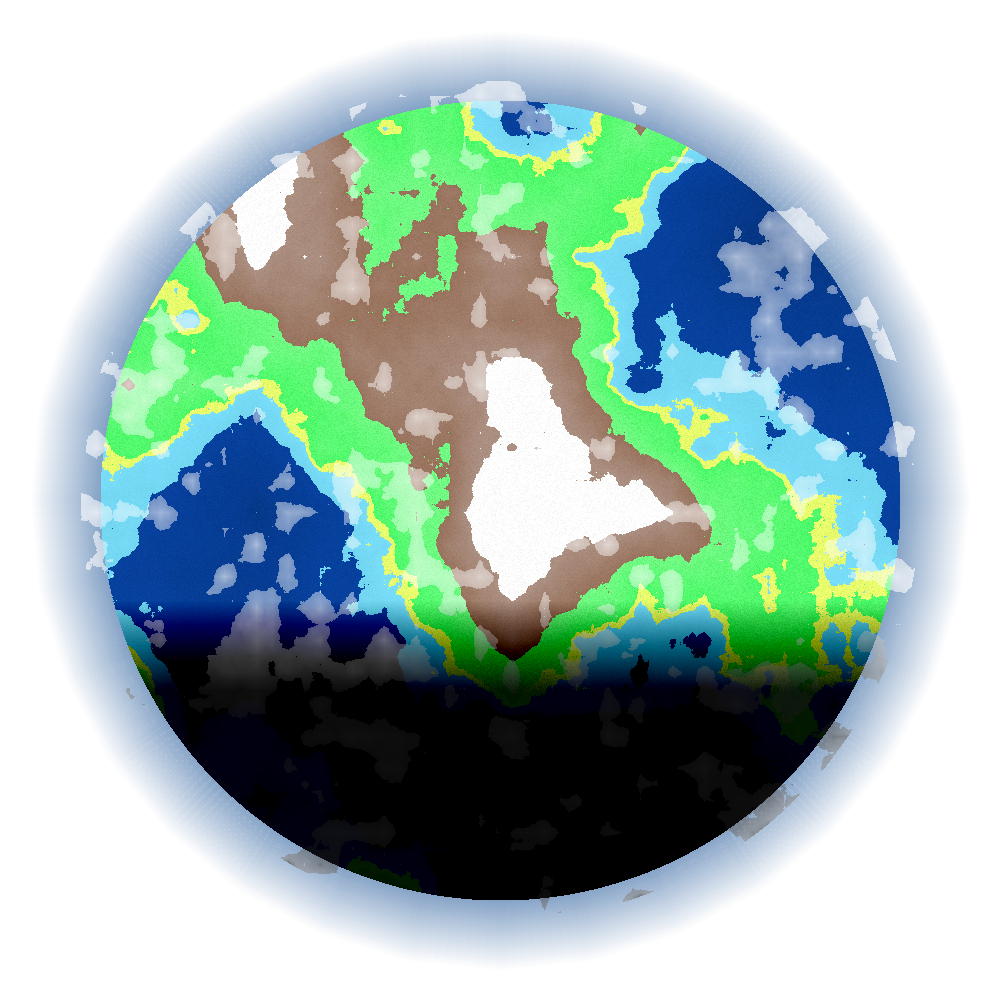
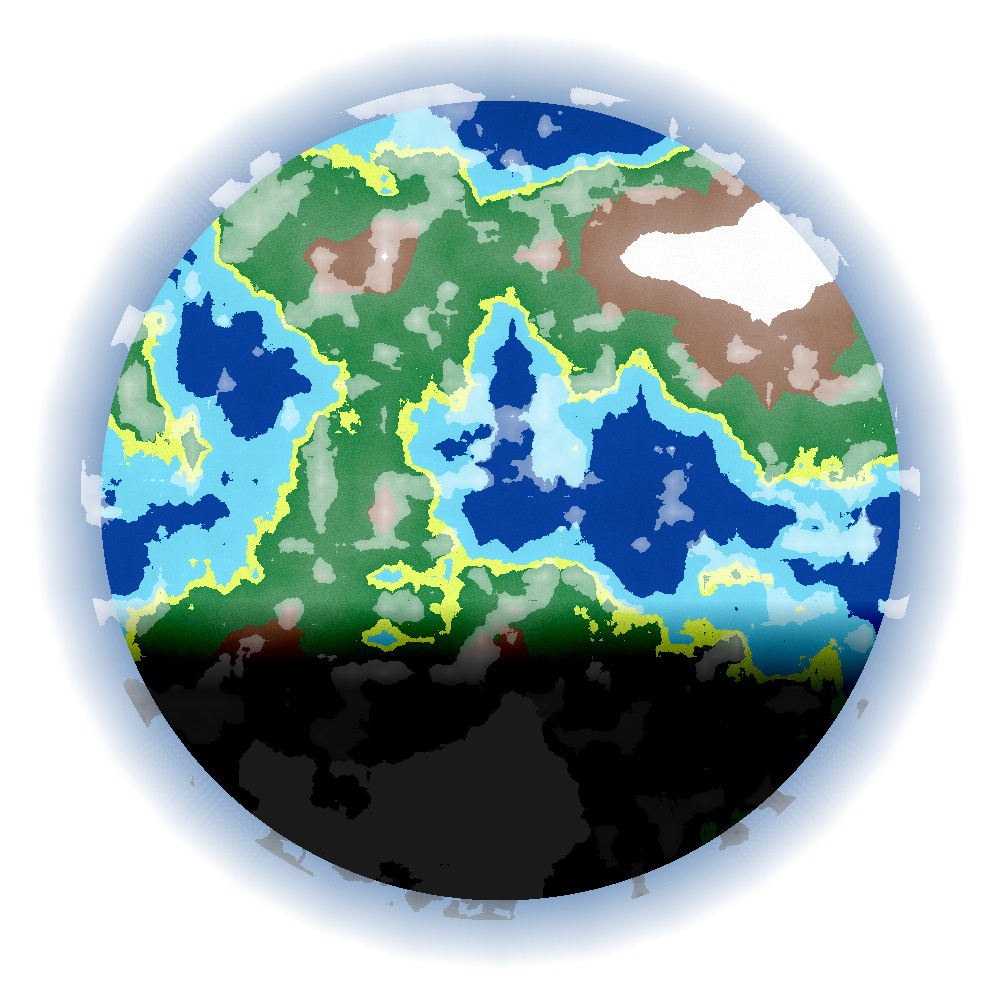
Seeds

diff --git a/Planet.js b/Planet.js
@@ -1,12 +1,17 @@
 const SimplexNoise = require("simplex-noise");
-const PerlinNoise = require('perlin-noise');
+const PerlinNoise = require('seeded-perlin-noise');
 const PImage = require('pureimage');
+const fs = require('fs');
 
 /*
     RANDOM NOISE GENERATION
 */
-function generatePerlinArray(width, height, options) {
+function generatePerlinArray(width, height, options, seed = null) {
     let perlinArray = [];
+
+    //SET SEED IF SET
+    PerlinNoise.setSeed(seed);
+
     let noise = PerlinNoise.generatePerlinNoise(width, height, options);
     for (let i = 0; i < height; i++) {
         let perlinRow = [];
@@ -32,8 +37,8 @@ function generateSimplexArray(width, height, seed) {
     return simplexArray;
 }
 
-function craterMap(width, height, generator_options) {
-    let perlinNoise = generatePerlinArray(width, height, generator_options);
+function craterMap(width, height, generator_options, seed) {
+    let perlinNoise = generatePerlinArray(width, height, generator_options, seed);
     let craters = []; //[[x,y],[x,y]]
 
     for (let x = 0; x < perlinNoise.length; x++) {
@@ -191,7 +196,7 @@ function distance(x1, y1, x2, y2) {
 /*
     PLANET GENERATION
 */
-function generatePlanet(imageSize, planetOptions, colors, generatorOptions = null, cloudGeneratorOptions = null) {
+function generatePlanet(imageSize, planetOptions, colors, seed = null, generatorOptions = null, cloudGeneratorOptions = null) {
 
     //GET VARS
     let width = imageSize, height = imageSize;
@@ -220,12 +225,12 @@ function generatePlanet(imageSize, planetOptions, colors, generatorOptions = nul
         }
     }
 
-    let noise = generatePerlinArray(width, height, generatorOptions);
+    let noise = generatePerlinArray(width, height, generatorOptions, seed);
 
     let grass_noise = null;
     //GENERATE DETAILS IF ENABLED
     if (colors.add_detail) {
-        grass_noise = generateSimplexArray(width, height, Math.random);
+        grass_noise = generateSimplexArray(width, height, seed);
     }
 
     var image = PImage.make(width, height);
@@ -306,7 +311,7 @@ function generatePlanet(imageSize, planetOptions, colors, generatorOptions = nul
 
     //CRATERS
     if (hasCraters) {
-        let craters = craterMap(width, height, generatorOptions);
+        let craters = craterMap(width, height, generatorOptions, seed);
 
         for (let i = 0; i < craters.length; i++) {
             let crater = craters[i];
@@ -318,7 +323,7 @@ function generatePlanet(imageSize, planetOptions, colors, generatorOptions = nul
             let inner_crater = Math.round(crater_radius * 0.2);
             crater_radius = crater_radius + crater_ring;
 
-            let blending = generatePerlinArray(width, width, cloudGeneratorOptions);
+            let blending = generatePerlinArray(width, width, cloudGeneratorOptions, seed);
 
             let x1 = 0;
             let y1 = 0;
@@ -384,7 +389,7 @@ function generatePlanet(imageSize, planetOptions, colors, generatorOptions = nul
 
     //CLOUDS
     if (hasClouds) {
-        let cloudNoise = generatePerlinArray(width, height, cloudGeneratorOptions);
+        let cloudNoise = generatePerlinArray(width, height, cloudGeneratorOptions, seed);
 
         let cloud_radius = planetOptions.cloud_radius;
         let cloud_level = planetOptions.cloud_level;
@@ -418,7 +423,7 @@ function generatePlanet(imageSize, planetOptions, colors, generatorOptions = nul
     return image;
 }
 
-function generateStar(imageSize, starOptions, colors, generatorOptions = null, blindSpotsGenerator = null) {
+function generateStar(imageSize, starOptions, colors, seed = null, generatorOptions = null, blindSpotsGenerator = null) {
     //GET VARS
     let width = imageSize, height = imageSize;
     let center = imageSize / 2;
@@ -447,11 +452,11 @@ function generateStar(imageSize, starOptions, colors, generatorOptions = null, b
         }
     }
 
-    let noise = generatePerlinArray(width, height, generatorOptions);
+    let noise = generatePerlinArray(width, height, generatorOptions, seed);
     let grass_noise = null;
     //GENERATE DETAILS IF ENABLED
     if (colors.add_detail) {
-        grass_noise = generateSimplexArray(width, height, Math.random);
+        grass_noise = generateSimplexArray(width, height, seed);
     }
 
     var image = PImage.make(width, height);
@@ -504,7 +509,7 @@ function generateStar(imageSize, starOptions, colors, generatorOptions = null, b
 
     //BlindSpots
     if (colors.blind_spots) {
-        let blindSpotNoise = generatePerlinArray(width, height, blindSpotsGenerator);
+        let blindSpotNoise = generatePerlinArray(width, height, blindSpotsGenerator, seed);
 
         for (let i1 = 0; i1 < blindSpotNoise.length; i1++) {
             let row = blindSpotNoise[i1];
@@ -538,7 +543,7 @@ function generateStar(imageSize, starOptions, colors, generatorOptions = null, b
     return image;
 }
 
-function generateGasGiant(imageSize, options, colors) {
+function generateGasGiant(imageSize, options, colors, seed = null) {
 
     //GET VARS
     let width = imageSize, height = imageSize;
@@ -553,7 +558,7 @@ function generateGasGiant(imageSize, options, colors) {
     let grass_noise = null;
     //GENERATE DETAILS IF ENABLED
     if (colors.add_detail) {
-        grass_noise = generateSimplexArray(width, height, Math.random);
+        grass_noise = generateSimplexArray(width, height, seed);
     }
 
     var image = PImage.make(width, height);
@@ -640,7 +645,7 @@ function generateGasGiant(imageSize, options, colors) {
 
     //DRAW EYES
     if (hasEyes) {
-        let eyes = craterMap(width, height, cloudGeneratorOptions = {octaveCount: 6, amplitude: 8, persistence: 0.2 })
+        let eyes = craterMap(width, height, cloudGeneratorOptions = {octaveCount: 4, amplitude: 1, persistence: 0.2 }, seed)
 
         for (let i = 0; i < eyes.length; i++) {
             let eye = eyes[i];
@@ -700,12 +705,16 @@ function generateGasGiant(imageSize, options, colors) {
         }
     }
 
-
     return image;
+}
+
+async function save(object, path) {
+    await PImage.encodePNGToStream(object, fs.createWriteStream(path));
 }
 
 module.exports = {
     generateGasGiant: generateGasGiant,
     generatePlanet: generatePlanet,
     generateStar: generateStar,
+    save: save,
 }

diff --git a/test.js b/test.js
@@ -3,7 +3,7 @@ const PImage = require('pureimage');
 const Planet = require("./Planet.js");
 
 let colors = {
-    land_color: "#4cfa69",
+    land_color: "#228747",
     beach_color: "#e9fe6d",
     shore_color: "#78dffb",
     ocean_color: "#0744a6",
@@ -67,8 +67,8 @@ let blind_spots = {
 }
 
 let gasOptions = {
-    giants_radius: 80,
-    giants_atmosphere: 100,
+    giants_radius: 400,
+    giants_atmosphere: 600,
     atmosphere: true,
     eyes: true
 }
@@ -95,14 +95,10 @@ let gasColors = {
 }
 
 let size = 1000;
+let seed = "Clara";
 
-//let image = Planet.generateGasGiant(size, gasOptions, gasColors);
-let image = Planet.generatePlanet(size, planet_options, colors, generator_options, cloud_generator);
-//let image = Planet.generateStar(size, sun_options, sun_colors, generator_options, blind_spots);
+//let image = Planet.generateGasGiant(size, gasOptions, gasColors, seed);
+let image = Planet.generatePlanet(size, planet_options, colors, seed, generator_options, cloud_generator);
+//let image = Planet.generateStar(size, sun_options, sun_colors, seed, generator_options, blind_spots);
 
-//TEST EXPORT
-PImage.encodePNGToStream(image, fs.createWriteStream('out.png')).then(() => {
-    console.log("wrote out the png file to out.png");
-}).catch((e)=>{
-    console.log("there was an error writing");
-});
+Planet.save(image,"out.png");

diff --git a/README.md b/README.md
@@ -36,11 +36,7 @@ let image Planet.generatePlanet([...]);
 /*
     Export with PureImage
 */
-PImage.encodePNGToStream(image, fs.createWriteStream('out.png')).then(() => {
-    console.log("wrote out the png file to out.png");
-}).catch((e)=>{
-    console.log("there was an error writing");
-});
+Planet.save(image, "Planet.png") //Image Object and Path
 ```
 
 # Example Options
@@ -89,8 +85,9 @@ let cloud_generator = {
 }
 
 let size = 1000; //Control the ImageSize
+let seed = "ASDFG";
 
-let image = Planet.generatePlanet(size, planet_options, colors, generator_options, cloud_generator);
+let image = Planet.generatePlanet(size, planet_options, colors, seed, generator_options, cloud_generator);
 ```
 
 ## Sun
@@ -124,8 +121,9 @@ let generator_options = {
 }
 
 let size = 1000;
+let seed = "ASDFG";
 
-let image = Planet.generateStar(size, sun_options, sun_colors, generator_options, blind_spots);
+let image = Planet.generateStar(size, sun_options, sun_colors, seed, generator_options, blind_spots);
 ```
 
 ## Gas Giant
@@ -159,6 +157,7 @@ let gasColors = {
 }
 
 let size = 200;
+let seed = "ASDFG";
 
-let image = Planet.generateGasGiant(size, gasOptions, gasColors);
+let image = Planet.generateGasGiant(size, gasOptions, gasColors, seed);
 ```
